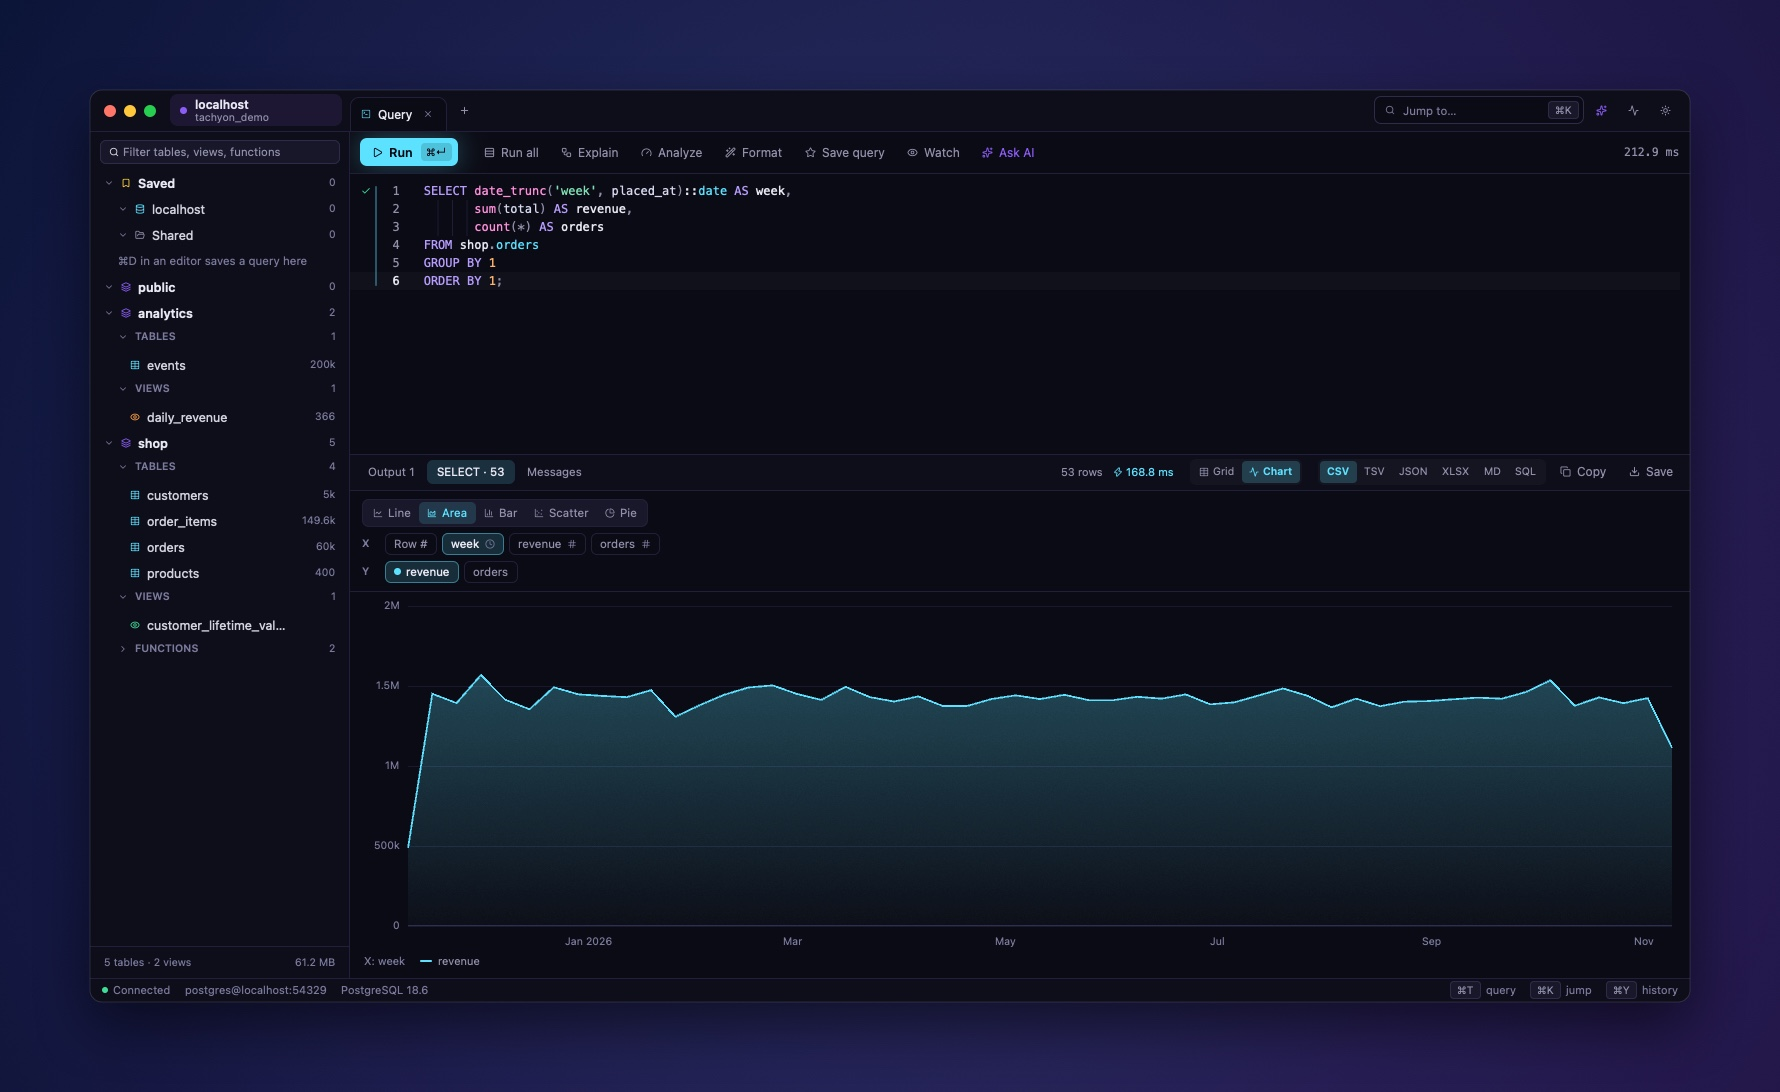
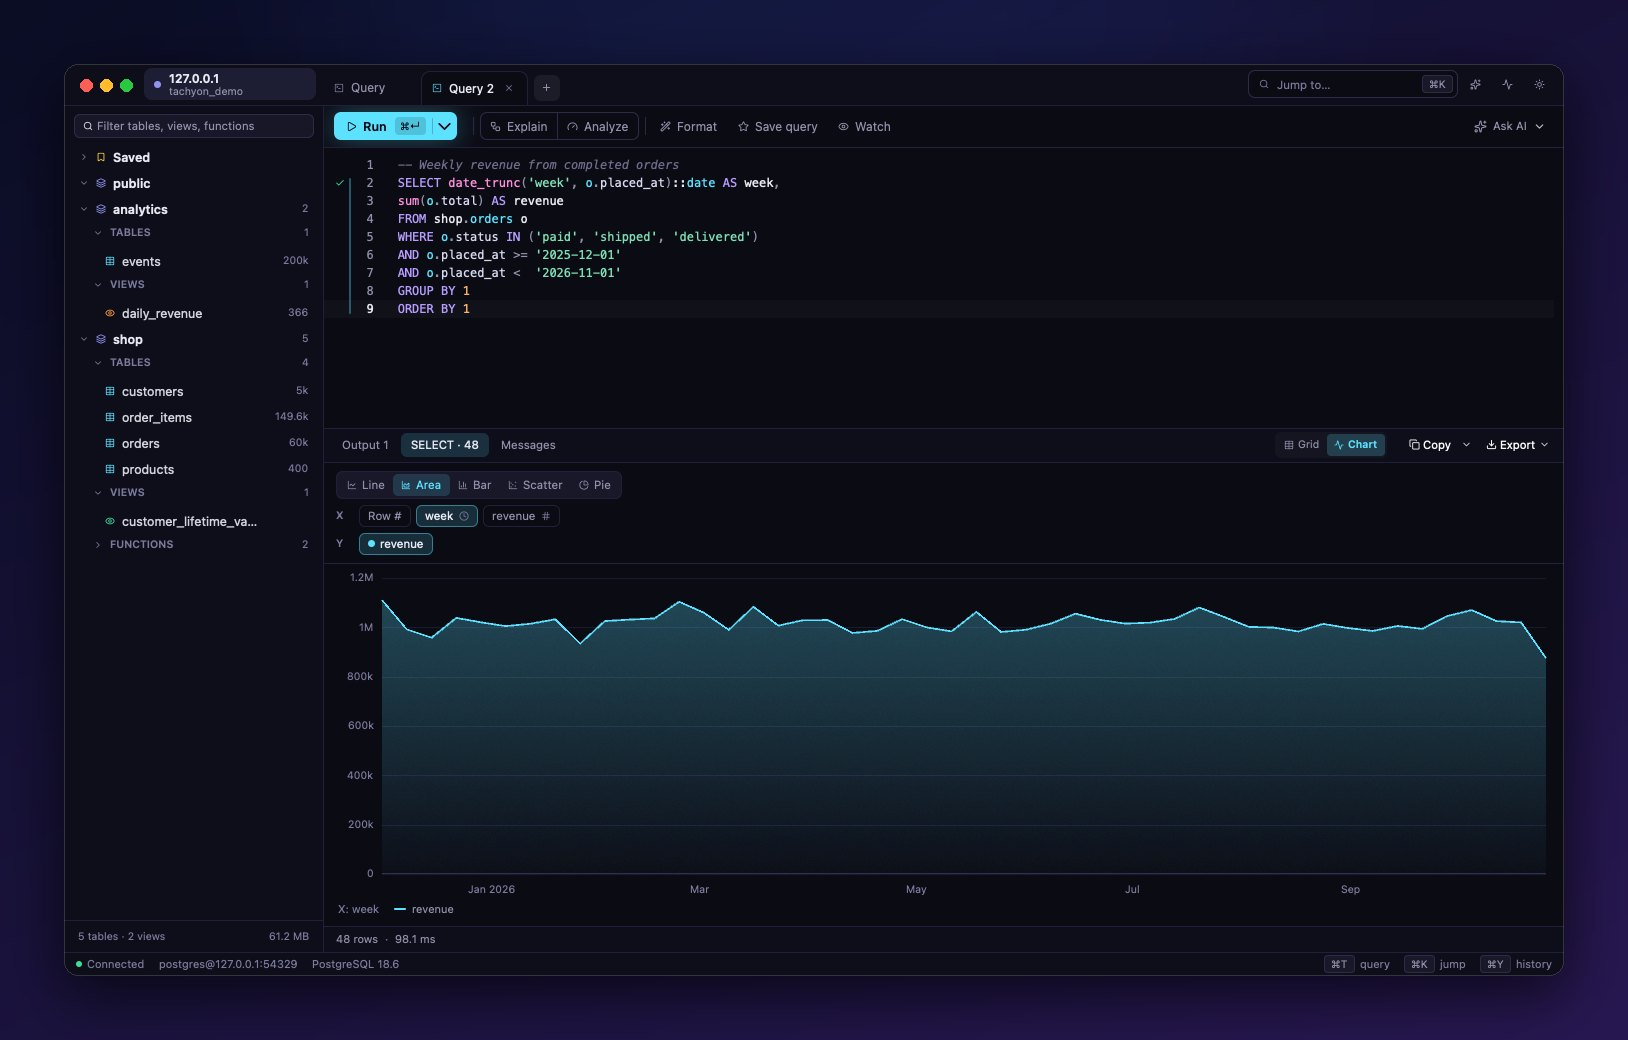
README: every major feature, with fresh screenshots
Sell the editor, filters and inspector, staged edits, query plans,
AI Assist and MCP, structure and diagram, maps and spatial tools,
local discovery, Redis and Valkey, and the pro toolbox. New dark
screenshots throughout, plus a dark and light pair.

diff --git a/README.md b/README.md
@@ -12,7 +12,7 @@
 
 ### The next-gen Postgres client for Mac
 
-Fast, beautiful and built for people who live in their database.
+Fast, beautiful and built for people who live in their database. Redis and Valkey too.
 
 <br>
 
@@ -25,12 +25,13 @@ Fast, beautiful and built for people who live in their database.
 <img src="https://img.shields.io/badge/macOS-12%2B-8a3fff?style=flat-square" alt="macOS 12 or later">
 <img src="https://img.shields.io/badge/Apple_silicon_%26_Intel-universal-4fa8ff?style=flat-square" alt="Universal app for Apple silicon and Intel">
 <img src="https://img.shields.io/badge/PostgreSQL-native-8a3fff?style=flat-square&logo=postgresql&logoColor=white" alt="Built for PostgreSQL">
-<img src="https://img.shields.io/badge/notarized-by_Apple-4fa8ff?style=flat-square&logo=apple&logoColor=white" alt="Signed and notarized by Apple">
+<img src="https://img.shields.io/badge/Redis_%26_Valkey-supported-4fa8ff?style=flat-square&logo=redis&logoColor=white" alt="Redis and Valkey supported">
+<img src="https://img.shields.io/badge/notarized-by_Apple-8a3fff?style=flat-square&logo=apple&logoColor=white" alt="Signed and notarized by Apple">
 
 <br>
 <br>
 
-<img src=".github/assets/shot-chart.jpg" alt="Tachyon showing a query, its results and an area chart" width="100%">
+<img src=".github/assets/shot-hero.jpg" alt="Tachyon with a SQL query, its results, and AI Assist answering a question about top customers" width="100%">
 
 </div>
 
@@ -43,13 +44,13 @@ Fast, beautiful and built for people who live in their database.
 <td width="50%" valign="top">
 
 ### ⚡ Built for speed
-Opens in a blink and stays out of your way. Results stream in the moment they're ready, and tables with millions of rows scroll without a stutter. Truly native, with almost no CPU while idle.
+Opens in a blink and stays out of your way. Results stream in the moment they're ready, and tables with millions of rows scroll without a stutter. Sorting, filtering and search run on the server, and Tachyon uses almost no CPU while idle.
 
 </td>
 <td width="50%" valign="top">
 
 ### ✍ Write SQL faster
-Autocomplete that knows your schema, whole joins written for you, typos forgiven. Mistakes are caught as you type, with one-key fixes and docs on hover for every table, column and function.
+Autocomplete that knows your schema and writes whole joins for you. Mistakes are underlined as you type, with one-key fixes, docs on hover and ⌘-click to jump to any definition.
 
 </td>
 </tr>
@@ -57,13 +58,13 @@ Autocomplete that knows your schema, whole joins written for you, typos forgiven
 <td width="50%" valign="top">
 
 ### 🔍 See your data
-Filter any column in a click, see what's inside it at a glance, and turn rows into charts. A visual query plan points straight at the slow parts, and your whole schema is drawn as a diagram.
+Filter any column in a click, profile what's inside it, and turn any result into a chart or a map. Query plans point straight at the slow parts, and your schema is drawn as a diagram.
 
 </td>
 <td width="50%" valign="top">
 
 ### 🛡 Edit with confidence
-Change values inline, then review every edit before it's saved. Read-only connections, colored environments and passwords in your macOS Keychain keep production safe.
+Change values inline and review every edit as SQL before it's saved. Read-only connections, colored environments and passwords in your macOS Keychain keep production safe.
 
 </td>
 </tr>
@@ -71,13 +72,13 @@ Change values inline, then review every edit before it's saved. Read-only connec
 <td width="50%" valign="top">
 
 ### ✨ AI that respects your data
-Bring your own AI: a leading provider or a private model running on your Mac. It reads only what you allow, and every change waits for your OK.
+Ask questions in plain English, or explain, optimize and fix the query in front of you. Use Anthropic, OpenAI, Gemini or a private model on your Mac. Nothing changes without your OK.
 
 </td>
 <td width="50%" valign="top">
 
 ### 🍎 At home on your Mac
-Light and dark, native menus, familiar shortcuts, a command palette for everything and beautiful themes.
+Light and dark, beautiful themes, native menus and familiar shortcuts. A command palette for everything, arrow keys everywhere, and a size that fits your screen.
 
 </td>
 </tr>
@@ -85,15 +86,95 @@ Light and dark, native menus, familiar shortcuts, a command palette for everythi
 
 <br>
 
+## An editor that knows your schema
+
+Type `JOIN ord` and Tachyon offers the whole join, `ON` clause included, from your foreign keys. Every table, column and function completes with its type, and docs appear on hover.
+
+- **Run what you mean.** ⌘↵ runs the statement under your cursor, a selection or the whole file, and a run button sits beside every statement. Named `:parameters` ask for their values.
+- **Catch mistakes early.** Errors are underlined as you type, with one-key fixes.
+- **Navigate like code.** ⌘-click or F12 to go to a definition, find every use, and rename a table or column: Tachyon writes the `ALTER` statement for you and can update your open editors to match.
+- **Format** with one key, **split** the editor side by side, and **watch** a query to re-run it on a timer.
+- **Edit functions and procedures** in place. Tachyon shows what changed on the server before saving them back.
+
 <div align="center">
-<img src=".github/assets/autocomplete.jpg" alt="Autocomplete that knows your schema" width="100%">
+<img src=".github/assets/autocomplete.jpg" alt="Autocomplete suggesting a whole join from a foreign key" width="100%">
+</div>
+
+<br>
+
+## Find what you're looking for
+
+Open any table and it's ready at once, even with millions of rows. Search across every column, filter by a column's most common values, or write a `WHERE` clause by hand. The inspector shows the selected row in full and profiles any column: row count, nulls, distinct values, range and top values.
+
+Foreign keys are links: click one to open the row it points to. Copy cells straight into a spreadsheet, or export results as CSV, TSV, JSON, Excel, Markdown, SQL inserts or GeoJSON.
+
+<div align="center">
+<img src=".github/assets/shot-filters.jpg" alt="Filtering orders by status with the column profile in the inspector" width="100%">
+</div>
+
+<br>
+
+## Edit with a safety net
+
+Double-click a cell and type. Every change is staged and highlighted until you commit, and the review shows each edit as before and after, or as the exact SQL that will run. Add and delete rows, set values to NULL, or paste a block of cells from a spreadsheet. Discard it all with one key.
+
+<div align="center">
+<img src=".github/assets/shot-review.jpg" alt="Reviewing three staged edits before committing them" width="100%">
+</div>
+
+<br>
+
+## Find the slow parts
+
+**Explain** and **Analyze** draw the query plan as a tree, with bars that show where the time really went and flags on bad row estimates. Analyze always rolls back, so it's safe on any query. One click sends the plan to AI to suggest a faster query or the right index.
+
+<div align="center">
+<img src=".github/assets/shot-explain.jpg" alt="A visual query plan with the slowest steps highlighted" width="100%">
+</div>
+
+<br>
+
+## AI that respects your data
+
+Open **AI Assist** with ⌘J and ask about your data in plain English. Or use **Ask AI** on the query in front of you:
+
+- **Explain** what a query does, step by step.
+- **Optimize** it, with the tables, indexes and query plan sent along so the answer fits your database.
+- **Fix** an error, offered first whenever a query fails.
+- **Add comments** to a long query.
+
+Suggestions replace your query as one undoable edit, and nothing runs until you run it. AI can read your schema and, only if you allow it, run read-only queries that are always rolled back. You see exactly where your prompts go.
+
+Bring your own key for **Anthropic**, **OpenAI**, **Google Gemini** or any OpenAI-compatible service, or keep everything on your Mac with **Ollama** or **LM Studio**. Tachyon finds a local model server for you and can download a recommended model in one click.
+
+**Use your databases from Claude and other AI tools.** Tachyon includes an MCP server, so clients like Claude Desktop and Claude Code can read schemas and run read-only queries on the connections you turn on, one by one. None are shared until you choose.
+
+<br>
+
+## Shape your schema
+
+The **Structure** page puts everything about a table on one screen: columns, indexes with their size and usage, foreign keys in both directions, constraints, triggers, and health such as dead rows and the last vacuum. **Edit structure** changes columns, keys, indexes and constraints, and shows the SQL before anything runs. **New table** does the same from scratch.
+
+The **schema diagram** draws every table and relationship. Pan, zoom, find a table, drag cards around, and double-click to open one.
+
+<div align="center">
+<img src=".github/assets/shot-structure.jpg" alt="The structure page for the customers table" width="49%">
+<img src=".github/assets/shot-diagram.jpg" alt="A schema diagram of tables and their foreign keys" width="49%">
 </div>
 
 <br>
 
 ## Maps for your spatial data
 
-Run a query with PostGIS geometry and switch to **Map**. Hundreds of thousands of features draw instantly on a built-in, offline basemap. Color by any column, hover for details, and click to jump to the row.
+Run a query with PostGIS geometry or geography and switch to **Map**. Hundreds of thousands of features draw instantly on a built-in basemap that works offline. Hover for details, and click a feature to jump to its row.
+
+- **Style it your way.** Color by any column with categories, smooth ramps, natural breaks or quantiles. Add graduated symbols, labels, heatmaps, hexbins and clusters.
+- **Layers.** Pin results and add tables, then reorder, restyle and toggle them.
+- **Explore.** Measure distance and area, draw a box, polygon or radius to filter rows, and play dates back with a time slider. Export the map as PNG or SVG.
+- **Spatial tools.** Buffer, points in polygons, nearest neighbors, within distance, dissolve, clip, hulls, simplify, reproject, clustering, hex and grid binning, and more. Set a distance in meters, miles or feet and Tachyon writes the PostGIS for you. Read-only tools land straight on the map; anything that changes data only goes into the editor.
+- **49 GIS recipes.** Ready-made, documented queries for everyday analysis, filled in with your own tables.
+- **Import spatial files.** GeoJSON, Shapefile, KML, GPX and CSV with coordinates, with a map preview, coordinate system detection and a spatial index created for you.
+- **Spatial insight everywhere.** PostGIS autocomplete and docs, readable WKT, EWKT and GeoJSON in the inspector, geometry types, SRIDs and extents for every table, and a warning with a one-click fix when a big table has no spatial index.
 
 <div align="center">
 <img src=".github/assets/shot-map.jpg" alt="100,000 places in Chicago on Tachyon's map, colored by category" width="100%">
@@ -101,9 +182,32 @@ Run a query with PostGIS geometry and switch to **Map**. Hundreds of thousands o
 
 <br>
 
+## Databases on this Mac, one click away
+
+Tachyon finds Postgres, Redis and Valkey running in Docker, OrbStack, Podman and Colima, plus Postgres.app and Homebrew servers, and connects with the container's own settings. No ports or passwords to look up. New to Postgres? Try the built-in sample database.
+
+<div align="center">
+<img src=".github/assets/shot-local.jpg" alt="The home screen listing databases found in local containers" width="100%">
+</div>
+
+<br>
+
 ## Redis and Valkey too
 
-Connect to Redis or Valkey with a link, or in one click when they're running in Docker, OrbStack or Podman on your Mac. Browse keys grouped by prefix, open any type in a view made for it, and see where your memory goes with keyspace analysis: biggest keys, key patterns and what's set to expire. Anything that changes data asks first.
+Connect with a `redis://` or `valkey://` link, or in one click from **On this Mac**. Passwords, ACL users, TLS and SSH tunnels all work.
+
+- **Browse keys** in a tree grouped by prefix, with type, size and expiry at a glance. Search by pattern and filter by type.
+- **Look inside any key.** Strings as text, a folding JSON tree or hex. Hashes, lists, sets, sorted sets and streams each get a view made for them, with stream consumer groups too.
+- **Edit safely.** Changes are staged and shown as the exact commands before they run.
+- **Keyspace analysis** shows where your memory goes: by type, by key pattern such as `user:*:session`, the biggest keys, and how much is set to expire. Export the report as CSV or JSON.
+- **Server dashboard** with live operations per second, memory, hit ratio, clients, persistence and replication, plus the slow log, connected clients, latency and configuration.
+- **Console** with autocomplete for every command, and AI Assist that knows Redis.
+- **Safe by default.** Anything that changes data asks first, and commands that wipe or stop a server need you to type their name.
+
+<div align="center">
+<img src=".github/assets/shot-redis.jpg" alt="Keyspace analysis showing memory by type and by key pattern" width="49%">
+<img src=".github/assets/shot-redis-key.jpg" alt="A sorted set key open in the Redis key browser" width="49%">
+</div>
 
 <br>
 
@@ -111,22 +215,34 @@ Connect to Redis or Valkey with a link, or in one click when they're running in 
 
 | | |
 |---|---|
-| **Maps & PostGIS** | See geometry on a fast, offline map, color it by any column, and get spatial autocomplete, index checks and GeoJSON export. |
-| **Table designer** | Add and change columns, keys, indexes and constraints, with the SQL shown before anything runs. |
-| **Roles & privileges** | Manage roles, memberships, table, column and default privileges. |
-| **Backup & restore** | Back up and restore databases, schemas or single tables. |
-| **Schema compare** | See exactly what differs between two databases and get the migration. |
+| **Charts** | Turn any result into a line, area, bar, scatter or pie chart in one click, even with hundreds of thousands of rows. |
+| **Roles & privileges** | Create and change roles and memberships, and grant table, column and default privileges, with every change previewed first. |
+| **Backup & restore** | Back up and restore databases, schemas or single tables, with live progress and the command shown before it runs. |
+| **Run SQL files** | Run a dump or migration statement by statement, with progress, stop or carry on after errors, and an optional all-or-nothing transaction. |
+| **Schema compare** | See exactly what differs between two databases and get the migration script. Nothing runs by itself. |
 | **Activity monitor** | Live connections and running queries, who is blocking whom, and one click to cancel or stop a query. |
-| **Secure SSH** | Connect through bastion hosts using your existing SSH config and keys. |
-| **Import & export** | Import CSV and TSV files; export results as CSV, TSV, JSON, Excel, Markdown or SQL. |
-| **Saved queries & history** | Keep queries as plain `.sql` files, and find anything you've run before. |
+| **Saved queries & history** | Keep queries as plain `.sql` files in folders you can also edit outside the app. ⌘Y searches everything you've ever run, on every connection. |
+| **Import & export** | Import CSV, TSV and spatial files into a new or existing table. Export results as CSV, TSV, JSON, Excel, Markdown, SQL or GeoJSON. |
+| **Secure connections** | Reach private networks through SSH using your existing config, keys, agent and jump hosts, with host keys verified. SSL with your own CA. |
+| **Safe production** | Read-only connections, colored environment labels, and passwords and API keys in your macOS Keychain. |
+| **Command palette** | ⌘K jumps to any table, view or function, runs any command, and reopens saved and past queries. Every shortcut can be changed. |
+| **Keyboard first** | Arrow keys move through the sidebar, results and every list. Shift-arrows select a range of cells, ready to paste into a spreadsheet. |
+| **Tabs & windows** | Pin tabs, split the editor, open several windows, and get a notification when a long query finishes while you're elsewhere. |
+| **iCloud sync** | Optionally keep your saved connections in sync across your Macs through iCloud Drive. |
+| **Themes & sizes** | Built-in light and dark themes, or make your own. Tachyon picks a comfortable size for each display, and ⌘+ and ⌘− fine-tune it. |
 
 <br>
 
-<div align="center">
-<img src=".github/assets/shot-explain.jpg" alt="A visual query plan highlighting the slowest step" width="49%">
-<img src=".github/assets/shot-browse-light.jpg" alt="Browsing a table in light mode" width="49%">
-</div>
+## Dark and light
+
+Tachyon follows your Mac's appearance, or pick a theme of your own. Toggle any time with ⇧⌘L.
+
+<table>
+<tr>
+<td width="50%"><img src=".github/assets/shot-chart.jpg" alt="Weekly revenue as an area chart in the dark theme"></td>
+<td width="50%"><img src=".github/assets/shot-chart-light.jpg" alt="The same chart in the light theme"></td>
+</tr>
+</table>
 
 <br>
 
@@ -134,11 +250,11 @@ Connect to Redis or Valkey with a link, or in one click when they're running in 
 
 1. [Download the latest release](https://github.com/mccannjustin17/tachyon-releases/releases/latest) (`Tachyon-<version>.dmg`).
 2. Open it and drag **Tachyon** into your **Applications** folder.
-3. Open Tachyon and connect: paste a `postgres://` URL, add a connection, or try the built-in sample database.
+3. Open Tachyon and connect: pick a database found on your Mac, paste a `postgres://` or `redis://` URL, add a connection, or try the built-in sample database.
 
-Tachyon is signed and notarized by Apple.
+Tachyon is signed and notarized by Apple. It's in early access, and every feature is unlocked.
 
-**Requirements:** macOS 12 Monterey or later, on Apple silicon or Intel. Works with PostgreSQL servers on your Mac, on your network or in the cloud, over SSL and SSH.
+**Requirements:** macOS 12 Monterey or later, on Apple silicon or Intel. Works with PostgreSQL, Redis and Valkey servers on your Mac, on your network or in the cloud, over SSL and SSH.
 
 ## Updates
 
@@ -148,13 +264,14 @@ See what changed in each version on the [releases page](https://github.com/mccan
 
 ## Privacy
 
-Tachyon has no analytics and no tracking. It only talks to:
+Tachyon has no account, no analytics and no tracking. It only talks to:
 
 - **Your databases**, directly or through the SSH hosts you configure.
-- **The AI provider you choose**, if you turn AI on, and only with what you allow it to read.
+- **The AI provider you choose**, if you turn AI on, and only with what you allow it to read. Local models never leave your Mac.
+- **iCloud Drive**, only if you turn on connection sync.
 - **GitHub**, to check for updates (you can turn this off).
 
-Passwords and API keys are stored in your macOS Keychain, never in plain files.
+Map basemaps are built in, so maps work offline. Passwords and API keys are stored in your macOS Keychain, never in plain files.
 
 ## Feedback & support
 
@@ -163,5 +280,5 @@ Found a bug or have an idea? [Open an issue](https://github.com/mccannjustin17/t
 <br>
 
 <div align="center">
-<sub>© 2026 Tachyon. All rights reserved. PostgreSQL is a trademark of the PostgreSQL Community Association of Canada. Mac and macOS are trademarks of Apple Inc.</sub>
+<sub>© 2026 Tachyon. All rights reserved. PostgreSQL is a trademark of the PostgreSQL Community Association of Canada. Redis is a trademark of Redis Ltd. Mac and macOS are trademarks of Apple Inc.</sub>
 </div>
